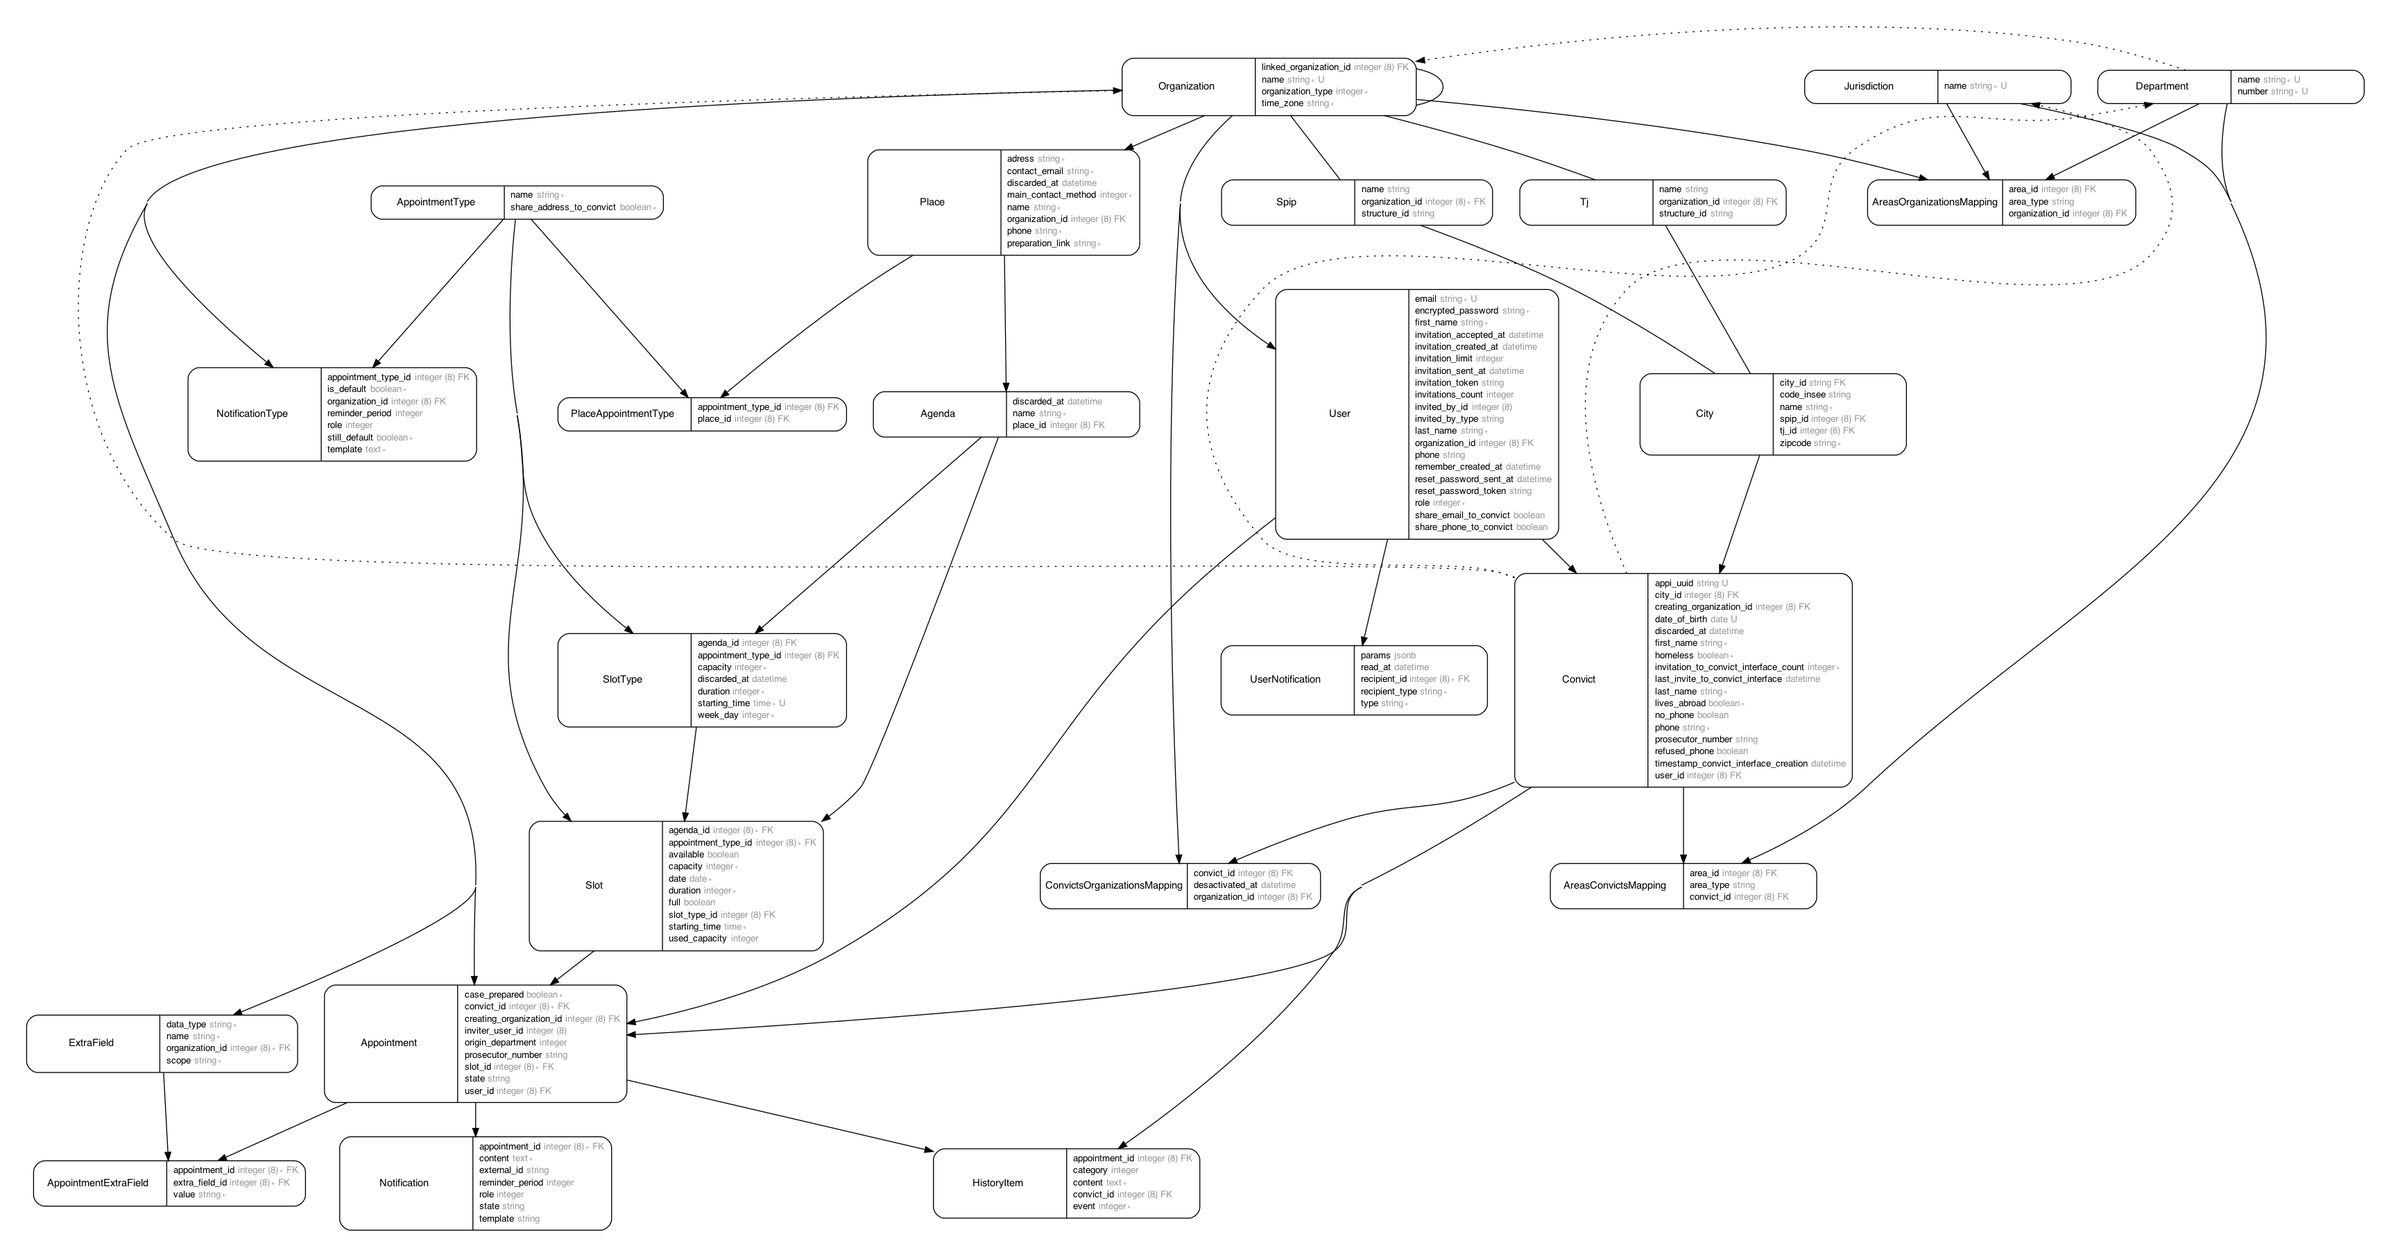
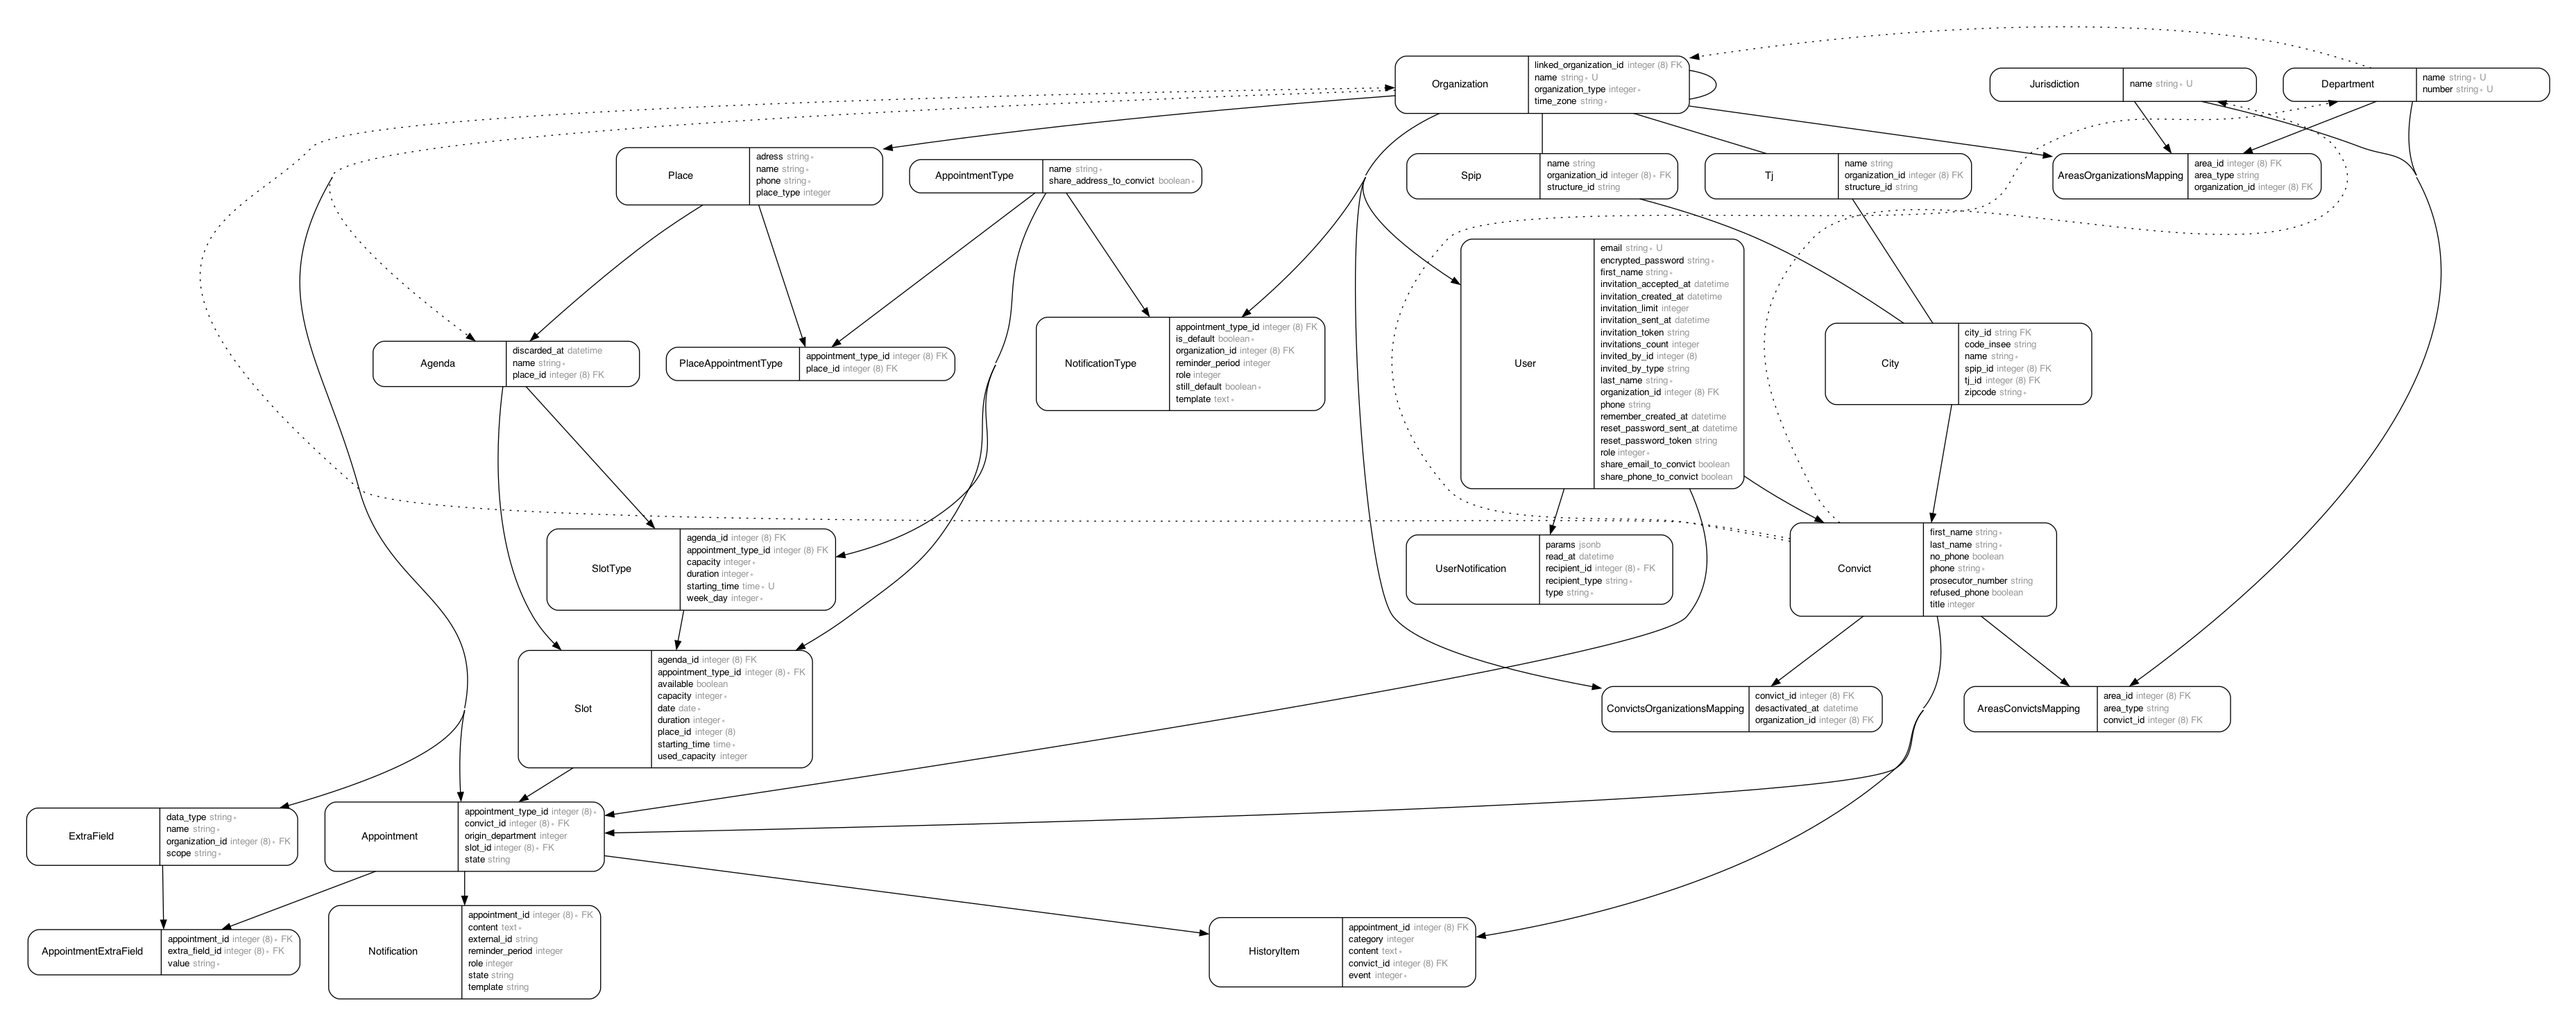
remove old srj table

diff --git a/db/schema.rb b/db/schema.rb
@@ -178,15 +178,6 @@ ActiveRecord::Schema.define(version: 2023_02_22_133056) do
     t.index ["zipcode"], name: "index_cities_on_zipcode"
   end
 
-  create_table "commune", id: false, force: :cascade do |t|
-    t.text "id"
-    t.string "code_insee", limit: 255
-    t.string "code_postal"
-    t.float "latitude"
-    t.float "longitude"
-    t.text "libelle"
-  end
-
   create_table "convicts", force: :cascade do |t|
     t.string "first_name"
     t.string "last_name"
@@ -259,13 +250,6 @@ ActiveRecord::Schema.define(version: 2023_02_22_133056) do
     t.datetime "created_at", precision: 6, null: false
     t.datetime "updated_at", precision: 6, null: false
     t.index ["name"], name: "index_jurisdictions_on_name", unique: true
-  end
-
-  create_table "ln_commune_structure", id: false, force: :cascade do |t|
-    t.text "id"
-    t.text "commune_id"
-    t.text "structure_id"
-    t.string "mnemo"
   end
 
   create_table "notification_types", force: :cascade do |t|
@@ -385,24 +369,6 @@ ActiveRecord::Schema.define(version: 2023_02_22_133056) do
     t.index ["structure_id"], name: "index_spips_on_structure_id"
   end
 
-  create_table "structure", id: false, force: :cascade do |t|
-    t.text "id"
-    t.string "type_structure_id", limit: 255
-    t.text "libelle_principal"
-    t.string "libelle_adresse_1", limit: 255
-    t.string "libelle_adresse_2", limit: 255
-    t.string "libelle_adresse_3", limit: 255
-    t.string "telephone", limit: 255
-    t.string "telecopie", limit: 255
-    t.string "email", limit: 255
-    t.string "code_insee"
-    t.string "code_postal", limit: 255
-    t.string "ligne_acheminement", limit: 255
-    t.string "mnemo"
-    t.text "ville"
-    t.boolean "competent_matiere_nationale"
-  end
-
   create_table "tjs", force: :cascade do |t|
     t.string "name"
     t.bigint "organization_id"
@@ -411,16 +377,6 @@ ActiveRecord::Schema.define(version: 2023_02_22_133056) do
     t.string "structure_id"
     t.index ["organization_id"], name: "index_tjs_on_organization_id"
     t.index ["structure_id"], name: "index_tjs_on_structure_id"
-  end
-
-  create_table "type_structure", id: false, force: :cascade do |t|
-    t.string "id", limit: 255
-    t.string "mnemo", limit: 255
-    t.string "type_domaine", limit: 255
-    t.string "libelle_court", limit: 255
-    t.text "libelle_long"
-    t.text "commentaire"
-    t.boolean "is_baj"
   end
 
   create_table "user_notifications", force: :cascade do |t|
